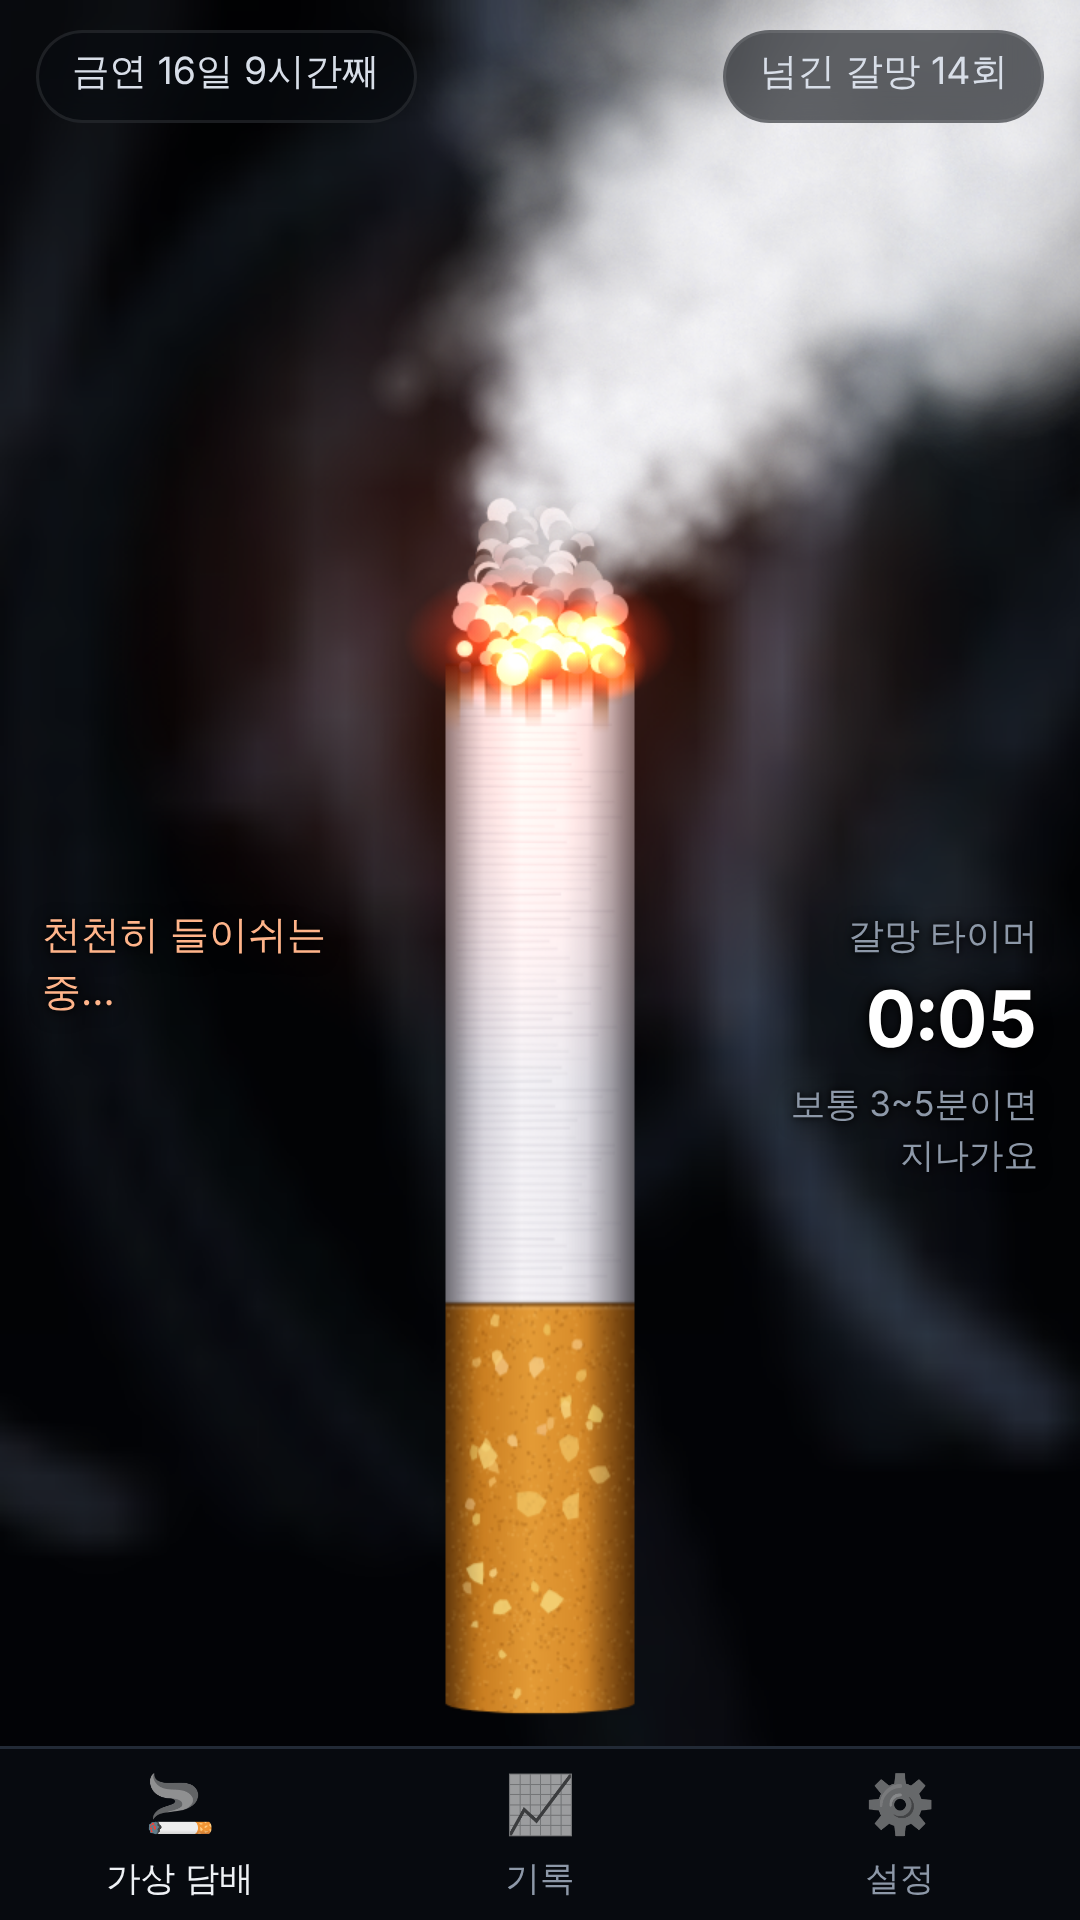
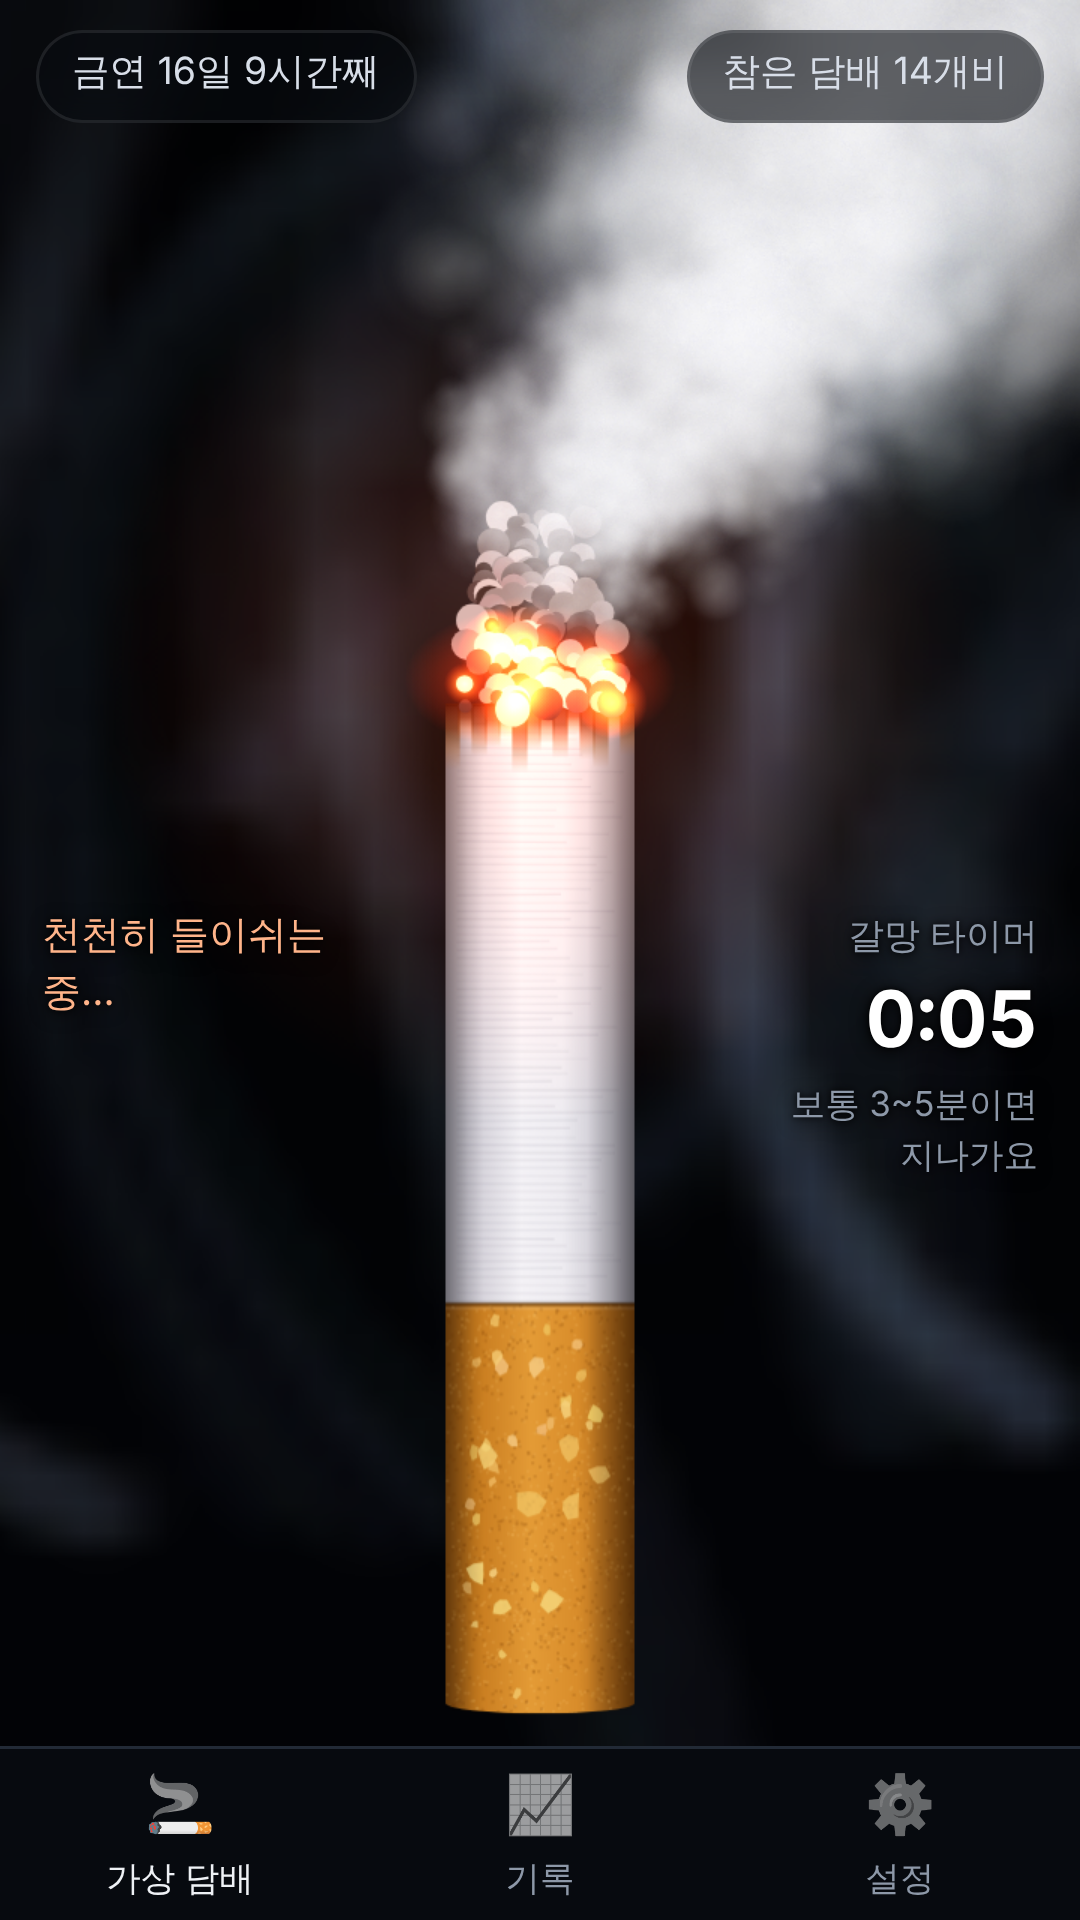
Burn 30% faster; replace crave and unsmoked stats with held-cigarette count
Claude-Session: https://claude.ai/code/session_01JsugdSrDrsdiGKH3GLDjYD

Changed region(s): [[0.3667, 0.0625, 1.0, 0.4062], [0.5806, 0.0, 0.9167, 0.0625], [0.4889, 0.0, 0.55, 0.0312]]

diff --git a/index.html b/index.html
@@ -17,7 +17,7 @@
     <canvas id="sim"></canvas>
     <div class="hud">
       <div class="pill" id="hud-time">금연 0분째</div>
-      <div class="pill" id="hud-count">넘긴 갈망 0회</div>
+      <div class="pill" id="hud-count">참은 담배 0개비</div>
     </div>
     <div class="side left" id="hint">담배를 꾹 누르고 있으면 한 모금 빨아들입니다</div>
     <div class="side right" id="crave" hidden>
@@ -28,7 +28,7 @@
     <div class="overlay" id="done" hidden>
       <div class="card">
         <div class="emoji">🎉</div>
-        <h2>갈망을 넘겼어요</h2>
+        <h2>한 개비 참았어요</h2>
         <p>진짜 담배 대신 가상 담배 한 개비로 버텼습니다.</p>
         <p class="gain" id="done-gain"></p>
         <button class="btn primary" id="btn-new">새 담배 꺼내기</button>
@@ -46,9 +46,8 @@
     </header>
     <div class="grid">
       <div class="stat"><div class="v" id="st-money">₩0</div><div class="k">아낀 돈</div></div>
-      <div class="stat"><div class="v" id="st-cigs">0개비</div><div class="k">안 피운 담배</div></div>
       <div class="stat"><div class="v" id="st-life">0분</div><div class="k">되찾은 수명(추정)</div></div>
-      <div class="stat"><div class="v" id="st-crave">0회</div><div class="k">가상 담배로 넘긴 갈망</div><div class="k sub" id="st-today">오늘 0회</div></div>
+      <div class="stat wide"><div class="v" id="st-held">0개비</div><div class="k">참은 담배 (가상 담배로 대신 피운 개비)</div><div class="k sub" id="st-today">오늘 0개비</div></div>
     </div>
     <h3>몸의 회복</h3>
     <ol class="timeline" id="timeline"></ol>

diff --git a/js/app.js b/js/app.js
@@ -56,7 +56,7 @@
     const cigs = (el / DAY) * data.perDay;
 
     $('#hud-time').textContent = `금연 ${shortDur(el)}째`;
-    $('#hud-count').textContent = `넘긴 갈망 ${data.log.length}회`;
+    $('#hud-count').textContent = `참은 담배 ${data.log.length}개비`;
     if (craveStart) {
       const s = Math.floor((Date.now() - craveStart) / 1000);
       $('#crave-clock').textContent = `${Math.floor(s / 60)}:${pad(s % 60)}`;
@@ -67,10 +67,9 @@
     $('#st-timer').textContent = `${Math.floor(s / 86400)}일 ${pad(Math.floor(s / 3600) % 24)}:${pad(Math.floor(s / 60) % 60)}:${pad(s % 60)}`;
     $('#st-since').textContent = new Date(data.quitAt).toLocaleString('ko-KR', { dateStyle: 'long', timeStyle: 'short' }) + '부터';
     $('#st-money').textContent = won(cigs * data.price / PACK);
-    $('#st-cigs').textContent = `${Math.floor(cigs).toLocaleString('ko-KR')}개비`;
     $('#st-life').textContent = lifeDur(cigs * LIFE_MIN);
-    $('#st-crave').textContent = `${data.log.length}회`;
-    $('#st-today').textContent = `오늘 ${todayCount()}회`;
+    $('#st-held').textContent = `${data.log.length.toLocaleString('ko-KR')}개비`;
+    $('#st-today').textContent = `오늘 ${todayCount()}개비`;
 
     $('#timeline').innerHTML = MILESTONES.map(([ms, when, what]) => {
       const p = Math.min(1, el / ms);

diff --git a/js/sim.js b/js/sim.js
@@ -6,8 +6,8 @@
   const ctx = canvas.getContext('2d');
   const TAU = Math.PI * 2;
 
-  const HOLD_BURN_TIME = 55;   // 계속 빨았을 때 한 개비가 다 타는 시간(초)
-  const IDLE_BURN_TIME = 420;  // 그냥 뒀을 때 다 타는 시간(초)
+  const HOLD_BURN_TIME = 38.5;   // 계속 빨았을 때 한 개비가 다 타는 시간(초)
+  const IDLE_BURN_TIME = 294;  // 그냥 뒀을 때 다 타는 시간(초)
   const MAX_PARTICLES = 700;
 
   const rand = (a, b) => a + Math.random() * (b - a);

diff --git a/css/style.css b/css/style.css
@@ -55,6 +55,7 @@ main { position: fixed; inset: 0 0 var(--tab-h) 0; }
 .stat { background: var(--panel); border: 1px solid var(--line); border-radius: 16px; padding: 14px; }
 .stat .v { font-size: 21px; font-weight: 700; font-variant-numeric: tabular-nums; }
 .stat .k { color: var(--muted); font-size: 12.5px; }
+.stat.wide { grid-column: 1 / -1; }
 .stat .k.sub { color: var(--ember); margin-top: 2px; }
 h3 { margin: 26px 0 10px; font-size: 16px; }
 .page-title { margin: 0 0 16px; font-size: 22px; }

diff --git a/README.md b/README.md
@@ -2,8 +2,8 @@
 
 피우고 싶을 때 진짜 담배 대신 **가상 담배**를 피우며 갈망을 넘기는 금연 앱(PWA)입니다.
 
-- **가상 담배**: 화면을 꾹 누르면 불씨가 달아오르고 연기가 짙어지며 담배가 타들어 갑니다. 손을 떼면 내뿜는 연기가 퍼집니다. 한 개비를 다 태우면 "넘긴 갈망"으로 기록됩니다.
-- **기록**: 금연 시간, 아낀 돈, 안 피운 담배, 되찾은 수명, 몸의 회복 단계.
+- **가상 담배**: 화면을 꾹 누르면 불씨가 달아오르고 연기가 짙어지며 담배가 타들어 갑니다. 손을 떼면 내뿜는 연기가 퍼집니다. 한 개비를 다 태우면 "참은 담배" 1개비로 기록됩니다.
+- **기록**: 금연 시간, 아낀 돈, 되찾은 수명, 참은 담배 개비 수, 몸의 회복 단계.
 - **설정**: 금연 시작 시각, 하루 흡연량, 한 갑 가격, 소리·진동.
 
 빌드 과정이 없는 정적 웹앱입니다. 데이터는 기기의 `localStorage`에만 저장됩니다.

diff --git a/store/README.md b/store/README.md
@@ -41,13 +41,13 @@
 · 꾹 누르면 한 모금, 손을 떼면 내뿜는 연기
 · 타닥거리는 소리와 진동(끌 수 있음)
 · 첫 모금부터 흐르는 갈망 타이머
-· 한 개비를 다 태우면 "넘긴 갈망"으로 기록
+· 한 개비를 다 태우면 "참은 담배" 1개비로 기록
 
 ■ 금연 기록
 · 금연한 시간
-· 아낀 돈과 안 피운 담배 개비 수
+· 아낀 돈
 · 되찾은 수명(추정)
-· 가상 담배로 넘긴 갈망 횟수
+· 가상 담배로 대신 피운 "참은 담배" 개비 수
 
 ■ 몸의 회복
 · 금연 20분 뒤부터 15년까지, 세계보건기구(WHO)가 안내하는 회복 단계를 진행률로 보여 줍니다.
